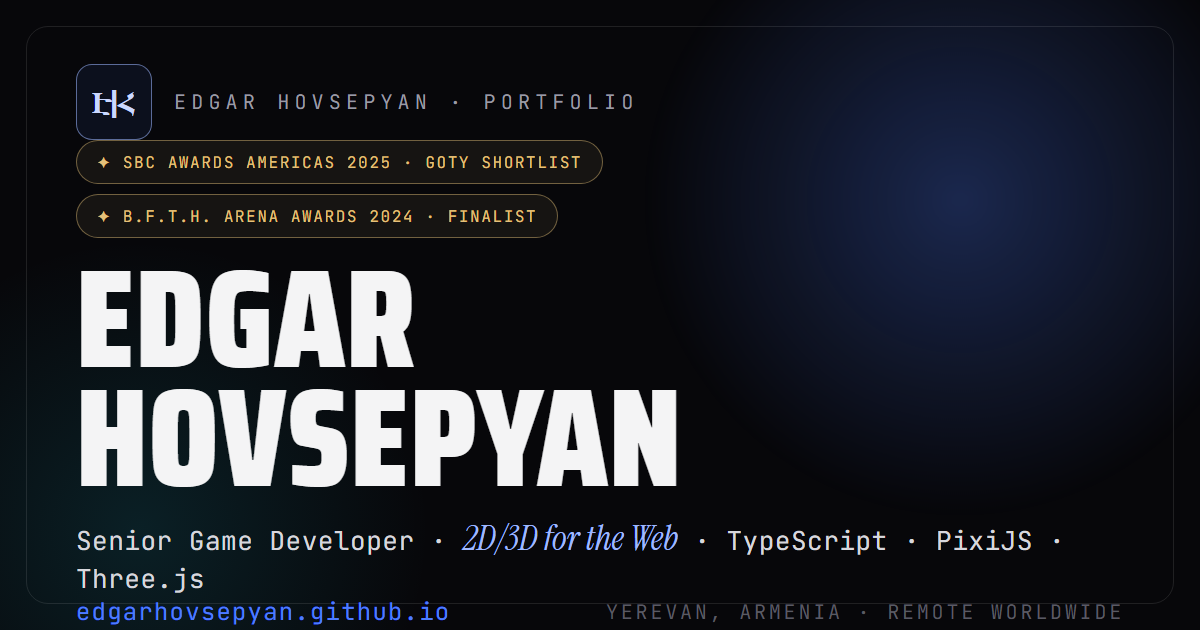
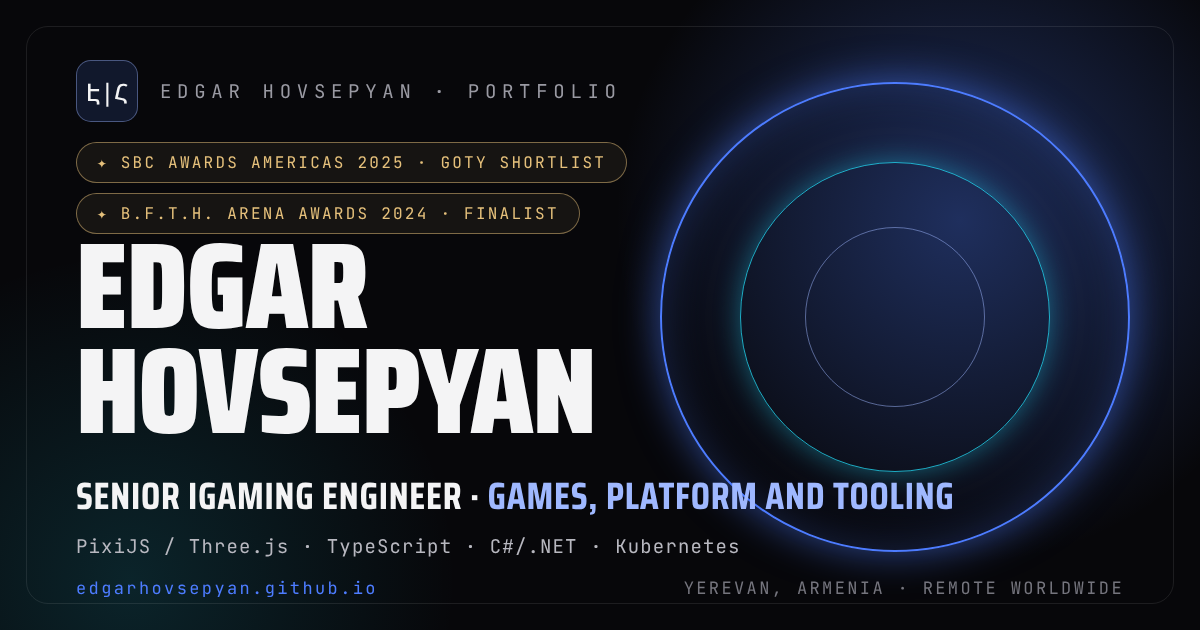
Accessibility clean, GSAP removed, new social image
- axe (WCAG 2.2 AA + best practice): 61 failing nodes down to 0 on desktop
  and phone layouts; the three quietest text tones now clear 4.5:1 and the
  carousel slides are plain divs with the group role
- The shader's breathing runs on sine waves; gsap is no longer a dependency
- Social preview image rebuilt for the current positioning, with a template
  and render script in tools/
- Sitemap date

Claude-Session: https://claude.ai/code/session_018CxHpoaqwaNnabH2ezhRsh

Changed region(s): [[0.0617, 0.0905, 0.9867, 0.9952], [0.0617, 0.9048, 0.37, 0.9952], [0.4008, 0.1206, 0.5242, 0.181]]

diff --git a/tools/og-image.html b/tools/og-image.html
@@ -1,0 +1,60 @@
+<!doctype html>
+<html lang="en">
+<head>
+<meta charset="utf-8" />
+<title>OG image</title>
+<link rel="stylesheet" href="/fonts/site-fonts.css" />
+<link rel="stylesheet" href="/fonts/fonts.css" />
+<style>
+  * { box-sizing: border-box; margin: 0; }
+  html, body { width: 1200px; height: 630px; background: #07070a; }
+  body { position: relative; overflow: hidden; color: #f4f4f5; font-family: 'Saira', sans-serif; }
+  .glow { position: absolute; right: -140px; top: -160px; width: 760px; height: 760px; border-radius: 50%;
+    background: radial-gradient(circle, rgba(77,124,255,.34), transparent 64%); }
+  .glow2 { position: absolute; left: -220px; bottom: -300px; width: 700px; height: 700px; border-radius: 50%;
+    background: radial-gradient(circle, rgba(34,211,238,.14), transparent 66%); }
+  /* the gate: two rings, as in the site's corridor */
+  .ring { position: absolute; right: 70px; top: 82px; width: 470px; height: 470px; border-radius: 50%;
+    border: 2px solid #4d7cff; box-shadow: 0 0 40px rgba(77,124,255,.55), inset 0 0 40px rgba(77,124,255,.25); }
+  .ring.b { right: 150px; top: 162px; width: 310px; height: 310px; border: 1px solid rgba(34,211,238,.8);
+    box-shadow: 0 0 26px rgba(34,211,238,.4); }
+  .ring.c { right: 215px; top: 227px; width: 180px; height: 180px; border: 1px solid rgba(159,184,255,.5); box-shadow: none; }
+  .frame { position: absolute; inset: 26px; border: 1px solid rgba(255,255,255,.09); border-radius: 22px; }
+  .in { position: absolute; inset: 0; padding: 60px 76px 72px; display: flex; flex-direction: column; }
+  .top { display: flex; align-items: center; gap: 22px; font-family: 'JetBrains Mono', monospace; font-size: 19px;
+    letter-spacing: .3em; text-transform: uppercase; color: #9a9aa3; }
+  .mono { width: 62px; height: 62px; border-radius: 15px; border: 1px solid rgba(159,184,255,.4);
+    background: rgba(77,124,255,.14); display: grid; place-items: center;
+    font-family: 'Noto Sans Armenian', sans-serif; font-weight: 500; font-size: 24px; letter-spacing: 0; color: #f4f4f5; }
+  .badges { margin-top: 20px; display: flex; flex-direction: column; align-items: flex-start; gap: 10px; }
+  .badge { padding: 9px 20px; border: 1px solid rgba(229,192,123,.5); border-radius: 100px; background: rgba(229,192,123,.07);
+    font-family: 'JetBrains Mono', monospace; font-size: 16px; letter-spacing: .14em; text-transform: uppercase; color: #e5c07b; }
+  h1 { margin-top: auto; font-family: 'Saira Condensed', sans-serif; font-weight: 900; font-size: 122px; line-height: .86;
+    letter-spacing: -.01em; text-transform: uppercase; }
+  .role { margin-top: 22px; font-family: 'Saira Condensed', sans-serif; font-weight: 700; font-size: 38px; letter-spacing: .02em;
+    text-transform: uppercase; }
+  .role b { color: #9fb8ff; font-weight: 700; }
+  .stack { margin-top: 8px; font-family: 'JetBrains Mono', monospace; font-size: 19px; letter-spacing: .06em; color: #b8b8c0; }
+  .foot { margin-top: 18px; display: flex; justify-content: space-between; font-family: 'JetBrains Mono', monospace;
+    font-size: 17px; letter-spacing: .14em; }
+  .foot a { color: #4d7cff; text-decoration: none; }
+  .foot span { color: #75757e; text-transform: uppercase; }
+</style>
+</head>
+<body>
+  <div class="glow"></div><div class="glow2"></div>
+  <div class="ring"></div><div class="ring b"></div><div class="ring c"></div>
+  <div class="frame"></div>
+  <div class="in">
+    <div class="top"><div class="mono">Է|Հ</div>Edgar Hovsepyan · Portfolio</div>
+    <div class="badges">
+      <div class="badge">✦ SBC Awards Americas 2025 · GotY shortlist</div>
+      <div class="badge">✦ B.F.T.H. Arena Awards 2024 · Finalist</div>
+    </div>
+    <h1>Edgar<br />Hovsepyan</h1>
+    <div class="role">Senior iGaming Engineer · <b>Games, Platform and Tooling</b></div>
+    <div class="stack">PixiJS / Three.js · TypeScript · C#/.NET · Kubernetes</div>
+    <div class="foot"><a>edgarhovsepyan.github.io</a><span>Yerevan, Armenia · Remote worldwide</span></div>
+  </div>
+</body>
+</html>

diff --git a/src/components/ui/turbulent-flow.tsx b/src/components/ui/turbulent-flow.tsx
@@ -1,5 +1,4 @@
 import { useEffect, useRef } from 'react';
-import { gsap } from 'gsap';
 import { useReducedMotion } from '@/hooks/useReducedMotion';
 import { cx } from '@/utils/cx';
 import styles from './turbulent-flow.module.css';
@@ -23,10 +22,10 @@ const fragmentBody = `
   uniform float u_time;
   uniform vec2  u_resolution;
   uniform vec2  u_mouse;       // centered, ~-0.5..0.5
-  uniform float u_noise_scale; // GSAP-driven, subtle base-frequency breathing
-  uniform float u_distortion;  // GSAP-driven, domain-warp amount
-  uniform float u_turbulence;  // GSAP-driven, density gain
-  uniform float u_sharpness;   // GSAP-driven, edge tightness
+  uniform float u_noise_scale; // subtle base-frequency breathing
+  uniform float u_distortion;  // domain-warp amount
+  uniform float u_turbulence;  // density gain
+  uniform float u_sharpness;   // edge tightness
   uniform float u_vel;         // smoothed scroll energy 0..1 — the field reacts to it
   varying vec2  vUv;
 
@@ -181,8 +180,8 @@ export function TurbulentFlow({ className, maxDpr = 2 }: TurbulentFlowProps) {
     const loc = {} as Record<(typeof UNIFORM_NAMES)[number], WebGLUniformLocation | null>;
     for (const name of UNIFORM_NAMES) loc[name] = gl.getUniformLocation(program, name);
 
-    // GSAP animates these plain {value} holders exactly as it did the three
-    // uniforms; the tick uploads them each frame.
+    // Plain {value} holders for the breathing parameters; the tick animates
+    // and uploads them each frame.
     const u = {
       noiseScale: { value: 4.0 },
       distortion: { value: 0.15 },
@@ -266,20 +265,17 @@ export function TurbulentFlow({ className, maxDpr = 2 }: TurbulentFlowProps) {
       gl.uniform1f(loc.u_time, time);
       gl.uniform2f(loc.u_mouse, mx, my);
       gl.uniform1f(loc.u_vel, vel);
+      // "Breathing": four field parameters drift on sine waves with periods
+      // that share no common factor, so the medium never visibly repeats.
+      // (This used to be a GSAP timeline; plain trigonometry does the same job
+      // and takes the last GSAP import, about 28 KB gzip, off the page.)
+      const s = now / 1000;
+      u.turbulence.value = 0.85 + 0.35 * Math.sin((s * 6.2832) / 21);
+      u.noiseScale.value = 4.4 + 1.6 * Math.sin((s * 6.2832) / 29 + 1);
+      u.distortion.value = 0.17 + 0.07 * Math.sin((s * 6.2832) / 24 + 2);
+      u.sharpness.value = 1.4 + 0.4 * Math.sin((s * 6.2832) / 17 + 3);
       draw();
     };
-
-    // GSAP "breathing" — slow drift of the field parameters.
-    const timeline = gsap.timeline({ repeat: -1 });
-    timeline
-      .to(u.turbulence, { value: 1.2, duration: 6, ease: 'sine.inOut' })
-      .to(u.noiseScale, { value: 6.0, duration: 8, ease: 'power2.inOut' }, 0)
-      .to(u.distortion, { value: 0.24, duration: 7, ease: 'power1.inOut' }, 1)
-      .to(u.sharpness, { value: 1.8, duration: 5, ease: 'power2.inOut' }, 2)
-      .to(u.turbulence, { value: 0.5, duration: 9, ease: 'sine.inOut' })
-      .to(u.noiseScale, { value: 2.8, duration: 10, ease: 'power2.inOut' }, '-=4')
-      .to(u.distortion, { value: 0.1, duration: 8, ease: 'power1.inOut' }, '-=6')
-      .to(u.sharpness, { value: 1.0, duration: 7, ease: 'power2.inOut' }, '-=5');
 
     const onMouseMove = (event: MouseEvent) => {
       tmx = event.clientX / window.innerWidth - 0.5;
@@ -295,15 +291,13 @@ export function TurbulentFlow({ className, maxDpr = 2 }: TurbulentFlowProps) {
     };
     window.addEventListener('scroll', onScroll, { passive: true });
 
-    // Start the loop and the GSAP "breathing" immediately and unconditionally.
-    timeline.play();
+    // Start the loop immediately and unconditionally.
     frameId = requestAnimationFrame(tick);
 
     return () => {
       window.removeEventListener('mousemove', onMouseMove);
       window.removeEventListener('scroll', onScroll);
       cancelAnimationFrame(frameId);
-      timeline.kill();
       dispose();
     };
   }, [reduced, maxDpr]);

diff --git a/src/components/sections/Work.tsx b/src/components/sections/Work.tsx
@@ -6,12 +6,12 @@ import type { WorkProject } from '../../data/types.ts';
 import styles from './Work.module.css';
 
 function WorkPanel({ project, index }: { project: WorkProject; index: number }) {
-  const ref = useRef<HTMLElement>(null);
+  const ref = useRef<HTMLDivElement>(null);
   const frame = useRef(0);
 
   // Pointer parallax: cursor position drives --px/--py (-1…1), which the CSS uses
   // to drift the art layers at different depths and tilt the card. Mouse only.
-  const onMove = (event: React.PointerEvent<HTMLElement>) => {
+  const onMove = (event: React.PointerEvent<HTMLDivElement>) => {
     const el = ref.current;
     if (!el || event.pointerType !== 'mouse') return;
     const rect = el.getBoundingClientRect();
@@ -32,7 +32,7 @@ function WorkPanel({ project, index }: { project: WorkProject; index: number }) 
   };
 
   return (
-    <article
+    <div
       ref={ref}
       className={styles.panel}
       role="group"
@@ -62,7 +62,7 @@ function WorkPanel({ project, index }: { project: WorkProject; index: number }) 
           ))}
         </div>
       </div>
-    </article>
+    </div>
   );
 }
 

diff --git a/src/styles/global.css b/src/styles/global.css
@@ -7,10 +7,12 @@
   --text-tertiary: #b8b8c0;
   --text-muted: #9a9aa3;
   --text-muted-2: #84848d;
-  --text-muted-3: #75757e;
-  --text-faint: #5a5a63;
-  --text-faintest: #4a4a52;
+  --text-muted-3: #8a8a94;
+  --text-faint: #83838d;
+  --text-faintest: #7f7f89;
   --text-soft: #86868f;
+  /* The three quietest text tones were lifted so that every label clears
+     4.5:1 on the page ground (axe: color-contrast). */
 
   --accent: #4d7cff;
   --accent-cyan: #22d3ee;

diff --git a/vite.config.ts b/vite.config.ts
@@ -12,13 +12,4 @@ export default defineConfig({
       '@': fileURLToPath(new URL('./src', import.meta.url)),
     },
   },
-  build: {
-    rollupOptions: {
-      output: {
-        manualChunks: {
-          gsap: ['gsap'],
-        },
-      },
-    },
-  },
 });
